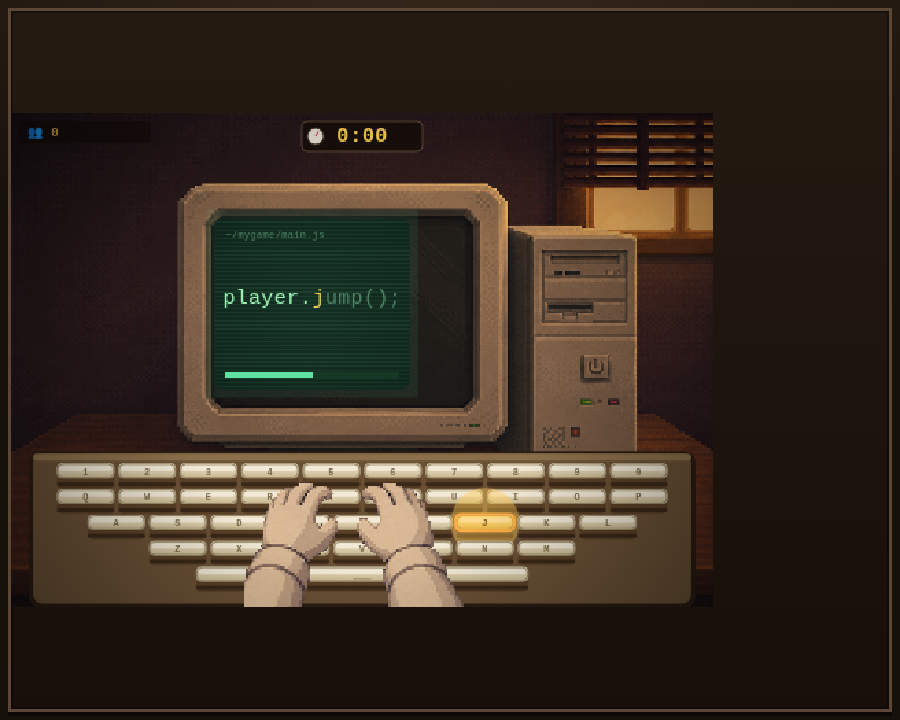
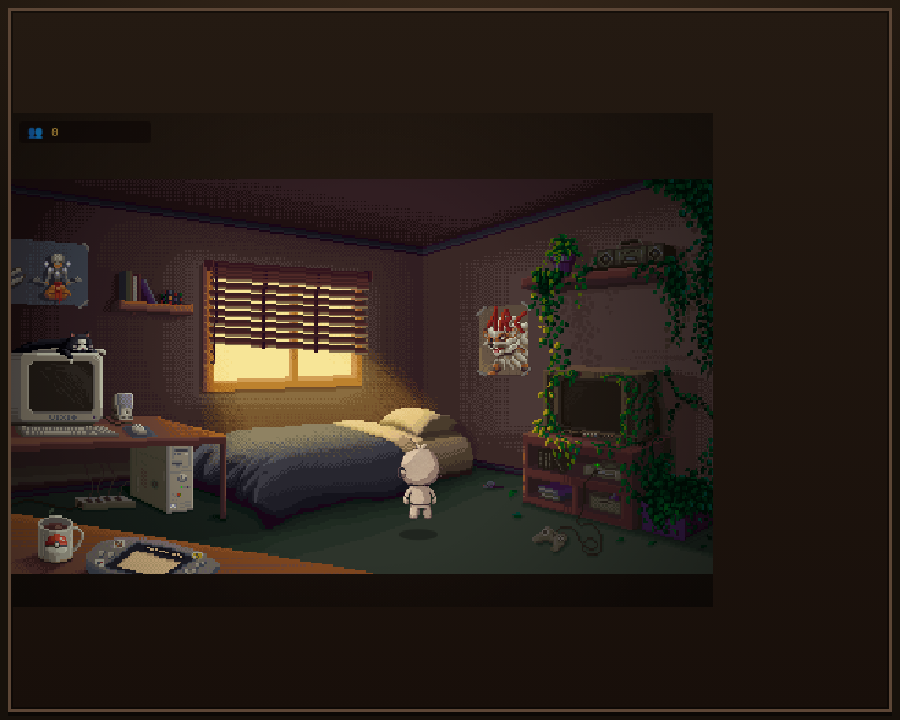
Bring back the room hub, GearOS desktop apps and the fridge
- Walkable room (room.gif) is the hub again: click to walk, click
  the computer to sit down. Ground shadow + walk cycle.
- GearOS desktop returns with apps: GearEngine (starts the typing
  game), Fridge, GameJamNet, Recycle.
- Fridge is back with the 5 drink sprites, re-themed as buffs for
  the typing loop: +30% players next ship, clock 30% slower, start
  with 4 chars pre-typed, instant player payouts.
- itch page gains a 'Take a break' button that returns to the room.
- Title screen now shows the room with the dev walking through it.

Claude-Session: https://claude.ai/code/session_01FUTbySxrTyvWDMxpMLcdoD

diff --git a/js/game.js b/js/game.js
@@ -21,8 +21,18 @@
     pressed: {}, tick: 0,
     // ship mash
     build: 0, btn: 0,
+    // room hub
+    player: { x: 0, feetY: 0, target: null, facing: 1, moving: false, animT: 0, intend: false },
+    // drink buffs (consumed at the next coding session)
+    buff: { shipMult: 1, clockSlow: 1, preType: 0 }, buffName: "",
     // fx
     pops: [], shake: 0, handTap: 0, t: 0, lastGain: 0
+  };
+
+  // room hotspots, normalized to the room image (drawn "contain" on canvas)
+  var ROOM = {
+    computer: { x: 0.0, y: 0.40, w: 0.21, h: 0.32 },
+    standX: 0.16, floorY: 0.90, spawnX: 0.58, scale: 0.30, walk: 0.28
   };
 
   // ---------------------------------------------------------
@@ -47,6 +57,7 @@
     if (els.roombg) els.roombg.classList.add("hidden");
 
     canvas.addEventListener("pointerdown", onDown);
+    canvas.addEventListener("pointermove", onMove);
     window.addEventListener("keydown", onKey);
     window.addEventListener("pointerdown", function () { A.unlock(); }, { once: true });
     if (els.muteBtn) els.muteBtn.addEventListener("click", function () { els.muteBtn.textContent = A.toggleMute() ? "🔇" : "🔊"; });
@@ -66,9 +77,21 @@
     return { x: (e.clientX - r.left - (r.width - W * sc) / 2) / sc, y: (e.clientY - r.top - (r.height - H * sc) / 2) / sc };
   }
 
+  function onMove(e) {
+    if (G.state !== "room") return;
+    var p = toXY(e), cz = computerRectC();
+    G.hoverComputer = (p.x >= cz.x && p.x <= cz.x + cz.w && p.y >= cz.y && p.y <= cz.y + cz.h);
+  }
+
   function onDown(e) {
     if (e.cancelable) e.preventDefault();
     var p = toXY(e);
+    if (G.state === "room") {
+      var cz = computerRectC();
+      if (p.x >= cz.x && p.x <= cz.x + cz.w && p.y >= cz.y && p.y <= cz.y + cz.h) { G.player.target = R.roomMap(ROOM.standX, 0).x; G.player.intend = true; }
+      else { G.player.target = Math.max(20, Math.min(W - 20, p.x)); G.player.intend = false; }
+      return;
+    }
     if (G.state === "code") {
       // tapping an on-screen key types it (this is the mobile/touch input path)
       var keys = R.keyboardLayout().keys;
@@ -98,10 +121,116 @@
     var idx = G.shipped % SNIPPETS.length;
     // pick a snippet scaling roughly with progress
     G.target = SNIPPETS[(idx + Math.floor(G.shipped / SNIPPETS.length) * 3) % SNIPPETS.length];
-    var pre = Math.min(G.upg.autocomplete * 2, G.target.length - 1);
+    var pre = Math.min(G.upg.autocomplete * 2 + (G.buff.preType || 0), G.target.length - 1);
+    G.buff.preType = 0;                                  // brew buff is one-shot
     G.typedLen = pre; G.mistakes = 0; G.mistakeFlash = 0; G.typeTime = 0; G.typing = false;
     G.pressed = {}; G.state = "code";
     hideOverlay();
+  }
+
+  // =========================================================
+  //  ROOM HUB (walk to the computer)
+  // =========================================================
+  function enterRoom() {
+    G.state = "room"; hideOverlay();
+    R.roomCanvas(ctx);                                  // establish the room rect
+    var rr = R.roomRect();
+    G.player.feetY = R.roomMap(0, ROOM.floorY).y;
+    G.player.x = R.roomMap(ROOM.spawnX, 0).x;
+    G.player.target = null; G.player.intend = false; G.player.moving = false;
+  }
+  function updateRoom(dt) {
+    var pl = G.player, rr = R.roomRect();
+    if (pl.target != null) {
+      var dx = pl.target - pl.x, spd = ROOM.walk * rr.w * dt;
+      if (Math.abs(dx) <= spd) { pl.x = pl.target; pl.target = null; pl.moving = false; if (pl.intend) { pl.intend = false; openDesktop(); } }
+      else { pl.x += Math.sign(dx) * spd; pl.facing = dx < 0 ? -1 : 1; pl.moving = true; pl.animT += dt; }
+    } else pl.moving = false;
+  }
+  function computerRectC() {
+    var a = R.roomMap(ROOM.computer.x, ROOM.computer.y), rr = R.roomRect();
+    return { x: a.x, y: a.y, w: ROOM.computer.w * rr.w, h: ROOM.computer.h * rr.h };
+  }
+  function renderRoom(t) {
+    R.roomCanvas(ctx);
+    var cz = computerRectC(), pl = G.player, hgt = ROOM.scale * R.roomRect().h;
+    var hover = G.hoverComputer;
+    if (hover) { ctx.save(); ctx.strokeStyle = "#ffe08a"; ctx.lineWidth = 2; ctx.globalAlpha = 0.5 + 0.35 * Math.sin(t * 6); R.rr(ctx, cz.x + 2, cz.y, cz.w - 4, cz.h, 6); ctx.stroke(); ctx.restore(); }
+    var frame = pl.moving ? (Math.floor(pl.animT / 0.18) % 2 ? "walkB" : "walkA") : "back";
+    // ground shadow + hop
+    ctx.save(); ctx.globalAlpha = 0.28; ctx.beginPath(); ctx.ellipse(pl.x, pl.feetY, 14, 4, 0, 0, 6.28); ctx.fillStyle = "#000"; ctx.fill(); ctx.restore();
+    R.playerSprite(ctx, frame, pl.x, pl.feetY, hgt, pl.facing === 1, t, "");
+    // prompt
+    if (hover || Math.abs(pl.x - R.roomMap(ROOM.standX, 0).x) < 40) {
+      ctx.save(); ctx.textAlign = "center";
+      R.fillRR(ctx, cz.x + cz.w / 2 - 48, cz.y - 18, 96, 15, 4, "rgba(24,16,10,.9)");
+      ctx.font = "bold 9px 'Courier New',monospace"; ctx.fillStyle = "#ffca55";
+      ctx.fillText("▸ CLICK TO WORK", cz.x + cz.w / 2, cz.y - 7); ctx.restore();
+    }
+    // hint bar
+    ctx.textAlign = "center"; ctx.font = "8px 'Courier New',monospace"; ctx.fillStyle = "#b8a48e";
+    ctx.fillText("click to walk · click the computer to start working", W / 2, H - 8);
+    ctx.textAlign = "left";
+    hud();
+  }
+
+  // =========================================================
+  //  DESKTOP (GearOS apps)
+  // =========================================================
+  function openDesktop() {
+    G.state = "desktop";
+    var apps = [
+      { id: "engine", icon: "🖥", name: "GearEngine" },
+      { id: "fridge", icon: "🧊", name: "Fridge" },
+      { id: "net", icon: "🌐", name: "GameJamNet" },
+      { id: "trash", icon: "🗑", name: "Recycle" }
+    ];
+    var icons = apps.map(function (a) { return '<button class="dk-icon" data-app="' + a.id + '"><span class="dk-emoji">' + a.icon + '</span><span class="dk-label">' + a.name + '</span></button>'; }).join("");
+    overlay('<div class="desktop"><div class="dk-wall"><div class="dk-logo">GearOS<span>95</span></div><div class="dk-icons">' + icons + '</div></div>' +
+      '<div class="dk-taskbar"><button class="dk-start">▚ Start</button><span class="dk-hint">Open <b>GearEngine</b> to make a game · <b>Fridge</b> for a drink</span><span class="dk-clock">👥 ' + fmt(G.players) + '</span></div></div>');
+    var wrap = els.overlay.querySelector(".desktop");
+    wrap.querySelectorAll(".dk-icon").forEach(function (btn) { btn.onclick = function () { A.sfx.ui(); onDesktopApp(btn.getAttribute("data-app")); }; });
+    wrap.querySelector(".dk-start").onclick = function () { A.sfx.ui(); onDesktopApp("engine"); };
+  }
+  function onDesktopApp(id) {
+    if (id === "engine") { A.sfx.select(); startCode(); return; }
+    if (id === "fridge") { A.sfx.ui(); openDrinks(); return; }
+    var win = { net: "🌐 GameJamNet<br><i>“day one and someone already has a vertical slice??”</i><br>(do NOT read the comments.)", trash: "🗑 Recycle Bin<br>0 items. You never delete anything." }[id] || "…";
+    var w = document.createElement("div"); w.className = "dk-window";
+    w.innerHTML = '<div class="dk-titlebar"><span>' + id + '.exe</span><button class="dk-x">✕</button></div><div class="dk-body">' + win + '</div>';
+    els.overlay.querySelector(".desktop").appendChild(w);
+    w.querySelector(".dk-x").onclick = function () { w.remove(); };
+  }
+
+  // =========================================================
+  //  DRINKS (a buff for your next coding session)
+  // =========================================================
+  var DRINK_FX = {
+    cola:    { text: "+30% players next ship", apply: function () { G.buff.shipMult = 1.3; }, tag: "🔥" },
+    monster: { text: "clock 30% slower next game", apply: function () { G.buff.clockSlow = 0.7; }, tag: "🐌" },
+    brew:    { text: "next game starts 4 chars typed", apply: function () { G.buff.preType = 4; }, tag: "⌨" },
+    oj:      { text: "+60 players right now", apply: function () { G.players += 60; }, tag: "💰" },
+    water:   { text: "refreshing: +25 players", apply: function () { G.players += 25; }, tag: "💧" }
+  };
+  function openDrinks() {
+    G.state = "drinks";
+    var html = '<div class="drinks-modal itch"><h1 style="text-align:center;color:#ffca55">🧊 FRIDGE</h1><p style="text-align:center;color:#b8a48e">Grab a drink for a boost on your next game.</p><div class="drinks-row" id="drinks-row"></div><button class="big-btn" id="ov-btn">↩ Back to desktop</button></div>';
+    overlay(html);
+    var row = document.getElementById("drinks-row");
+    global.JamData.DRINKS.forEach(function (d) {
+      var fx = DRINK_FX[d.id] || { text: d.blurb, apply: function () { }, tag: "" };
+      var div = document.createElement("div"); div.className = "drink";
+      var cv = document.createElement("canvas"); cv.width = 56; cv.height = 78; var cc = cv.getContext("2d"); cc.imageSmoothingEnabled = false;
+      R.drinkSprite(cc, d, 28, 40, 72); div.appendChild(cv);
+      var nm = document.createElement("div"); nm.className = "d-name"; nm.textContent = d.name; div.appendChild(nm);
+      var ef = document.createElement("div"); ef.className = "d-energy"; ef.textContent = fx.tag + " " + fx.text; div.appendChild(ef);
+      div.onclick = function () { chooseDrink(d, fx); };
+      row.appendChild(div);
+    });
+    document.getElementById("ov-btn").onclick = function () { A.sfx.ui(); openDesktop(); };
+  }
+  function chooseDrink(d, fx) {
+    A.sfx.sip(); fx.apply(); G.buffName = d.name + " — " + fx.text; openDesktop();
   }
 
   function typeChar(ch) {
@@ -137,7 +266,9 @@
     var par = G.target.length * 0.35 * (1 + G.upg.coffee * 0.15);
     var speed = Math.max(0.5, Math.min(2.5, par / Math.max(0.5, G.typeTime)));
     var base = 10 + G.shipped * 4 + G.target.length * 0.5;
-    var mult = 1 + G.upg.viral * 0.5;
+    var mult = (1 + G.upg.viral * 0.5) * (G.buff.shipMult || 1);
+    G.buff.shipMult = 1;                                 // cola buff is one-shot
+    G.buff.clockSlow = 1;                                // monster buff lasted this game
     var gain = Math.max(1, Math.round(base * speed * mult));
     G.lastGain = gain; G.players += gain; G.shipped++;
     A.sfx.win(); G.shake = 8;
@@ -161,8 +292,10 @@
       '<div class="itch-sub">just shipped! +' + gain + ' players ' + (speed >= 1.6 ? "⚡ SPEED BONUS!" : "") + '</div>' +
       '<div class="itch-rate">📈 +' + perSecNow().toFixed(1) + ' players/sec</div></div></div>' +
       '<div class="up-title">UPGRADES</div><div class="up-grid" id="up-grid"></div>' +
-      '<button class="big-btn" id="ov-btn">⌨ Make next game →</button></div>';
+      (G.buffName ? '<p class="itch-rate" style="text-align:center">🥤 active: ' + G.buffName + '</p>' : '') +
+      '<div class="itch-btns"><button class="big-btn alt" id="ov-break">🚪 Take a break</button><button class="big-btn" id="ov-btn">⌨ Make next game →</button></div></div>';
     overlay(html);
+    var brk = document.getElementById("ov-break"); if (brk) brk.onclick = function () { A.sfx.ui(); enterRoom(); };
     // thumb
     var thumb = document.getElementById("itch-thumb");
     var tc = document.createElement("canvas"); tc.width = 96; tc.height = 72; var tx = tc.getContext("2d");
@@ -203,10 +336,10 @@
     G.state = "title";
     overlay('<div class="modal cozy"><h1>⌨ GAME JAM<br>SIMULATOR</h1>' +
       '<p class="lead">Type the code. Ship the game. Watch the players roll in.</p>' +
-      '<p>Follow the glowing keys and <b>type fast</b> — the clock is ticking. Then <b>mash the red button</b> to ship it, and spend your players on <b>upgrades</b>.</p>' +
-      '<button class="big-btn" id="ov-btn">▶ START CODING</button></div>');
+      '<p>Walk to your computer and open <b>GearEngine</b>. Follow the glowing keys and <b>type fast</b> — the clock is ticking. <b>Mash the red button</b> to ship, grab a <b>drink</b> from the fridge for a boost, and spend players on <b>upgrades</b>.</p>' +
+      '<button class="big-btn" id="ov-btn">▶ ENTER THE ROOM</button></div>');
     els.overlay.classList.add("title-mode");
-    document.getElementById("ov-btn").onclick = function () { A.sfx.ui(); G.players = 0; G.shipped = 0; G.upg = { autocomplete: 0, marketing: 0, viral: 0, coffee: 0 }; startCode(); };
+    document.getElementById("ov-btn").onclick = function () { A.sfx.ui(); G.players = 0; G.shipped = 0; G.upg = { autocomplete: 0, marketing: 0, viral: 0, coffee: 0 }; enterRoom(); };
   }
 
   // =========================================================
@@ -222,13 +355,15 @@
   function update(dt, t) {
     G.t = t;
     // idle players income (always ticking once playing)
-    if (G.state === "code" || G.state === "ship" || G.state === "itch") {
+    if (G.state !== "title" && G.state !== "boot") {
       G.players += perSecNow() * dt;
       if (G.state === "itch") { var el = document.getElementById("itch-count"); if (el) el.textContent = fmt(G.players); renderAfford(); }
     }
-    // typing clock
+    // room walking
+    if (G.state === "room") updateRoom(dt);
+    // typing clock (slowed by the Monster buff)
     if (G.state === "code" && G.typing) {
-      var before = Math.floor(G.typeTime); G.typeTime += dt;
+      var before = Math.floor(G.typeTime); G.typeTime += dt * (G.buff.clockSlow || 1);
       if (Math.floor(G.typeTime) !== before) A.sfx.timerLow();
     }
     // decays
@@ -251,9 +386,13 @@
     ctx.save();
     if (G.shake) ctx.translate((Math.random() - 0.5) * G.shake, (Math.random() - 0.5) * G.shake);
 
-    R.deskScene(ctx);
-
-    if (G.state === "code") {
+    if (G.state === "room") {
+      renderRoom(t);
+    } else if (G.state === "desktop" || G.state === "drinks") {
+      R.roomCanvas(ctx);
+      ctx.save(); ctx.globalAlpha = 0.45; ctx.fillStyle = "#000"; ctx.fillRect(0, 0, W, H); ctx.restore();
+    } else if (G.state === "code") {
+      R.deskScene(ctx);
       R.monitorCode(ctx, G.target, G.typedLen, t, { mistake: Math.max(0, G.mistakeFlash) });
       R.keyboard(ctx, { next: G.target[G.typedLen], pressed: G.pressed, t: t });
       R.handsSprite(ctx, 2, W / 2, t, { scale: 0.55, tap: G.handTap * 90, bobAmt: 2.5 });
@@ -261,6 +400,7 @@
       bigClock(t);
       hud();
     } else if (G.state === "ship") {
+      R.deskScene(ctx);
       // monitor keeps showing the finished code (aligned to the CRT)
       R.monitorCode(ctx, G.target, G.target.length, t, {});
       // red button sits on the desk to the RIGHT of the monitor
@@ -279,9 +419,9 @@
       R.handsSprite(ctx, 1, bx - 6, t, { scale: 0.6, tap: (G.btn > 0 ? 30 : 6), bobAmt: 2, fast: G.build > 0 });
       hud();
     } else {
-      // title: a bouncy walking dev along the desk; itch: idle hands
-      if (G.state === "title") walker(t);
-      else R.handsSprite(ctx, 0, W / 2, t, { scale: 0.5, bobAmt: 3 });
+      // title: bouncy walking dev in the room; itch: idle hands at the desk
+      if (G.state === "title") { R.roomCanvas(ctx); walker(t); }
+      else { R.deskScene(ctx); R.handsSprite(ctx, 0, W / 2, t, { scale: 0.5, bobAmt: 3 }); }
     }
 
     // pops
@@ -322,14 +462,14 @@
 
   function pop(x, y, txt, color, size) { G.pops.push({ x: x, y: y, txt: txt, color: color, size: size || 14, life: 0.9, vy: -30 }); }
 
-  // bouncy little dev walking across the desk edge (title screen)
+  // bouncy little dev walking across the room floor (title screen)
   function walker(t) {
-    var speed = 52, period = W + 140, x = ((t * speed) % period) - 70, feetY = H * 0.955;
+    var rr = R.roomRect(), speed = rr.w * 0.1, period = rr.w + 120;
+    var x = rr.x - 50 + ((t * speed) % period), feetY = R.roomMap(0, ROOM.floorY).y;
     var hop = Math.abs(Math.sin(t * 6)), bob = -hop * 8;
-    // shadow (shrinks on the up-beat)
-    ctx.save(); ctx.globalAlpha = 0.28 - hop * 0.14; ctx.beginPath(); ctx.ellipse(x, feetY, 16 - hop * 4, 4.5, 0, 0, 6.28); ctx.fillStyle = "#000"; ctx.fill(); ctx.restore();
+    ctx.save(); ctx.globalAlpha = 0.28 - hop * 0.14; ctx.beginPath(); ctx.ellipse(x, feetY, 15 - hop * 4, 4.5, 0, 0, 6.28); ctx.fillStyle = "#000"; ctx.fill(); ctx.restore();
     var frame = (Math.floor(t * 6) % 2) ? "walkB" : "walkA";
-    R.playerSprite(ctx, frame, x, feetY + bob, H * 0.34, true, t, "");
+    R.playerSprite(ctx, frame, x, feetY + bob, rr.h * ROOM.scale, true, t, "");
   }
 
   // =========================================================

diff --git a/js/render.js b/js/render.js
@@ -670,6 +670,27 @@
     return { x: s.x * W, y: s.y * H, w: s.w * W, h: s.h * H };
   }
 
+  // ---- room hub background (room.gif, drawn "contain" with warm bars) ----
+  var _roomRect = null;
+  function roomCanvas(ctx) {
+    var g = ctx.createLinearGradient(0, 0, 0, H); g.addColorStop(0, "#241a12"); g.addColorStop(1, "#140d09");
+    ctx.fillStyle = g; ctx.fillRect(0, 0, W, H);
+    var A = AS();
+    if (A && A.has("room")) {
+      var img = A.get("room"), s = Math.min(W / img.width, H / img.height);
+      var dw = img.width * s, dh = img.height * s, dx = (W - dw) / 2, dy = (H - dh) / 2;
+      ctx.imageSmoothingEnabled = false; ctx.drawImage(img, dx, dy, dw, dh);
+      _roomRect = { x: dx, y: dy, w: dw, h: dh };
+    } else {
+      _roomRect = { x: 0, y: H * 0.12, w: W, h: H * 0.76 };
+      px(ctx, _roomRect.x, _roomRect.y, _roomRect.w, _roomRect.h, "#3a2a20");
+      px(ctx, _roomRect.x, _roomRect.y + _roomRect.h * 0.62, _roomRect.w, _roomRect.h * 0.38, "#4a3628");
+    }
+    return _roomRect;
+  }
+  function roomMap(nx, ny) { var r = _roomRect || { x: 0, y: 0, w: W, h: H }; return { x: r.x + nx * r.w, y: r.y + ny * r.h }; }
+  function roomRect() { return _roomRect || { x: 0, y: 0, w: W, h: H }; }
+
   // ---- desk scene background ----
   function deskScene(ctx) {
     var A = AS();
@@ -888,6 +909,7 @@
     drinkCan: drinkCan, boosterPack: boosterPack, character: character,
     room: room, panel: panel,
     roomScene: roomScene, playerSprite: playerSprite, drinkSprite: drinkSprite, packSprite: packSprite, packRip: packRip,
+    roomCanvas: roomCanvas, roomMap: roomMap, roomRect: roomRect,
     screenRect: screenRect, deskScene: deskScene, monitorCode: monitorCode,
     keyboardLayout: keyboardLayout, keyForChar: keyForChar, keyboard: keyboard,
     handsSprite: handsSprite, runButton: runButton, upgradeIcon: upgradeIcon, peopleIcon: peopleIcon, keyGlow: keyGlow, vignette: vignette

diff --git a/js/assets.js b/js/assets.js
@@ -18,6 +18,7 @@
     { name: "hands",         src: "assets/hands.png",         sheet: { cols: 3, rows: 1 } }, // 0 idle,1 press,2 type
     { name: "runbtn",        src: "assets/runbtn.png",        sheet: { cols: 2, rows: 1 } }, // 0 up,1 down
     { name: "desk",          src: "assets/desk.png" },
+    { name: "room",          src: "assets/room.gif" },
     { name: "player",        src: "assets/player.png",        sheet: { cols: 4, rows: 2 } },
     { name: "drinks",        src: "assets/drinks.png",        sheet: { cols: 5, rows: 1 } },
     { name: "pack_gears",    src: "assets/pack_gears.png" },
